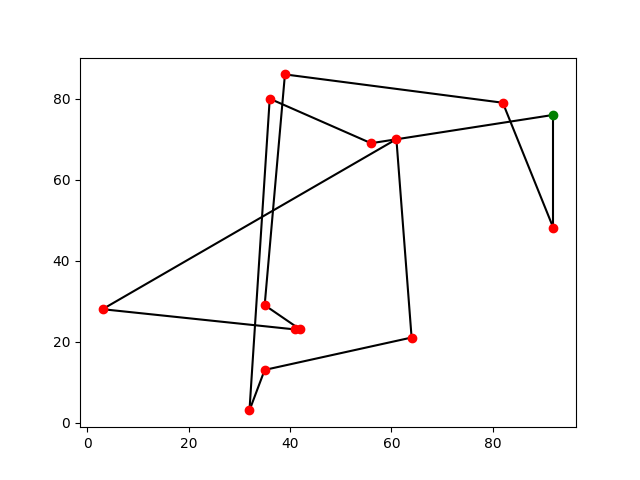
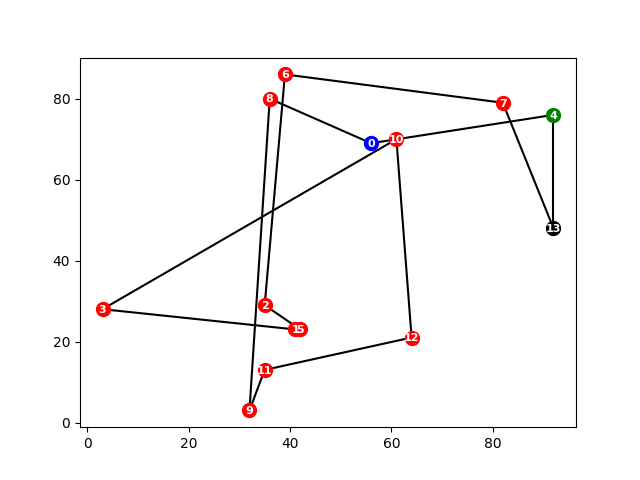
feat: adiciona cores para primeiro ponto e ultimo
também coloca label dentro dos potos

diff --git a/utils/graph.py b/utils/graph.py
@@ -1,5 +1,5 @@
 import json
-from matplotlib.pyplot import text, savefig, annotate, scatter, plot
+from matplotlib.pyplot import text, savefig, scatter, plot
 
 
 def generate_graph(json_data, name):
@@ -12,11 +12,25 @@ def generate_graph(json_data, name):
         x_end, y_end = pontos[route['targetId']]['x'], pontos[route['targetId']]['y']
         plot([x_start, x_end], [y_start, y_end], 'k-', zorder=0)
 
-    for route in data['routes']: 
+    first_id = ''
+    
+    for route in data['routes']:
+        color = 'red' 
+        
         if route['id'] == '0': 
-            scatter(route['x'], route['y'], color='green', marker='o')
-        else:
-            scatter(route['x'], route['y'], color='red', marker='o')
+            color = 'green'
+            first_id = route['targetId']
+        
+        if route['id'] == first_id: 
+            color = 'blue'
 
+        if route['targetId'] == '0': 
+            color = 'black'
+
+        scatter(route['x'], route['y'], color=color, marker='o', s=100)
+
+    for route in data['routes']:
+        x_end, y_end = pontos[route['targetId']]['x'], pontos[route['targetId']]['y']
+        text(x_end, y_end - 0.2, route['label'], ha='center', va='center', color="white", fontsize=8, fontweight='bold')
 
     savefig(f'./public/images/{name}')

diff --git a/expand_graph.py b/expand_graph.py
@@ -1,0 +1,22 @@
+import json
+from utils.files import read_file, write_cache
+
+def divide_valores_por_3(routes):
+    for route in routes:
+        route['x'] //= 3
+        route['y'] //= 3
+    return routes
+
+def main():
+    file_name = 'inst_25' 
+    file_path = f'./public/cache/{file_name}.json'
+
+    file_data = read_file(file_path)
+
+    tspResponse = json.loads(file_data)
+
+    tspResponse['routes'] = divide_valores_por_3(tspResponse['routes'])
+
+    write_cache(file_path, tspResponse)
+    print('cache saved')
+main()
